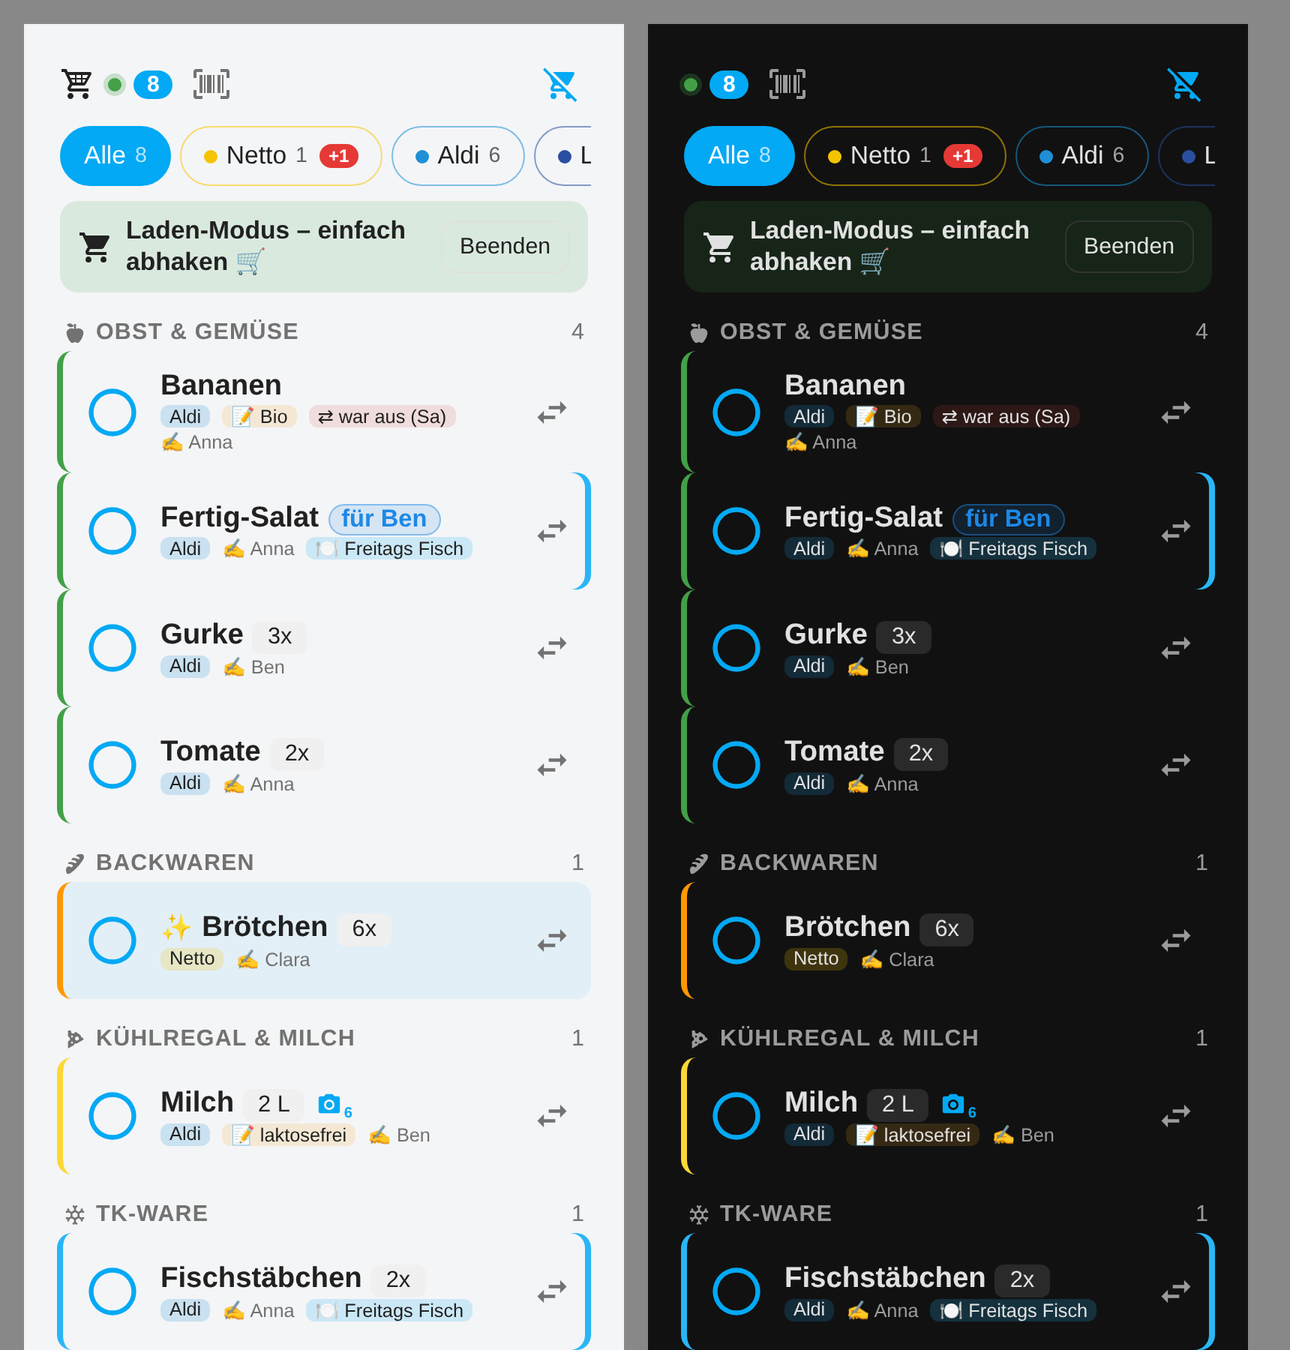
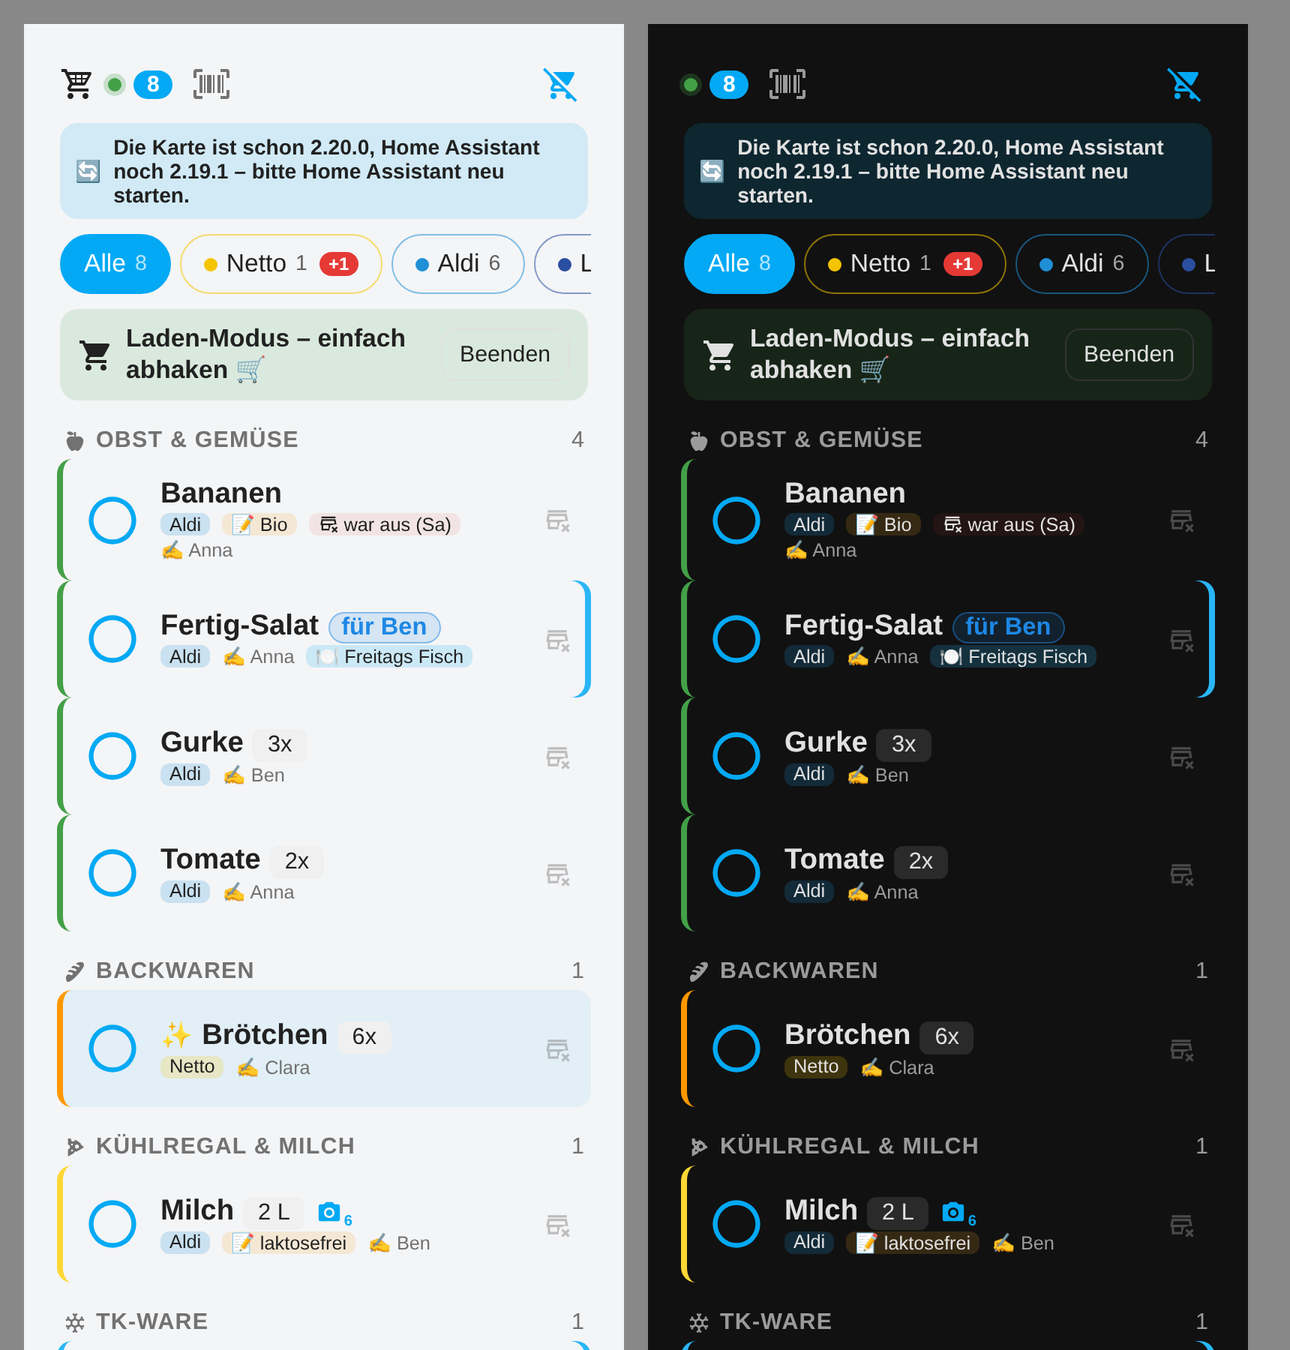
v2.20.1: „War aus“-Symbol 🏪✖ (store-remove) statt ⇄, dezent klein und blass
Claude-Session: https://claude.ai/code/session_01WikQiCoAkHJd8e52mW1tf4

diff --git a/custom_components/einkaufsliste/www/einkaufsliste-card.js b/custom_components/einkaufsliste/www/einkaufsliste-card.js
@@ -2,7 +2,7 @@
  * Einkaufsliste Card – die Familien-Einkaufsliste für Home Assistant
  * Wird automatisch von der Integration "einkaufsliste" geladen.
  */
-const EL_VERSION = "2.20.0";
+const EL_VERSION = "2.20.1";
 
 // Doppelt-Finder: Wörter, die dasselbe meinen (alles klein, ohne Leer-/Sonderzeichen)
 const DUP_SYNONYMS = (() => {
@@ -31,8 +31,8 @@ const LOG_ACT = {
   readd: { label: "♻ wieder drauf", verb: "hat % wieder auf die Liste genommen" },
   check: { label: "✅ abgehakt", verb: "hat % abgehakt" },
   edit: { label: "✏ geändert", verb: "hat % geändert" },
-  move: { label: "⇄ verschoben", verb: "hat % verschoben" },
-  out: { label: "⇄ war aus", verb: "hat % als „war aus“ markiert" },
+  move: { label: "🏪✖ verschoben", verb: "hat % verschoben" },
+  out: { label: "🏪✖ war aus", verb: "hat % als „war aus“ markiert" },
   remove: { label: "🗑 gelöscht", verb: "hat % gelöscht" },
 };
 const LOG_VIA = { card: "✍", scan: "▥", recipe: "🍳", merge: "🔗", cleanup: "🧹", service: "🤖" };
@@ -652,7 +652,7 @@ ha-card.shop .item { padding:11px 5px; font-size:1.2em; }
 ha-card.shop .item .name { font-weight:600; }
 ha-card.shop .item .check { padding:9px; --mdc-icon-size:38px; }
 ha-card.shop .item .meta { font-size:.66em; }
-ha-card.shop .item .acts { opacity:1; --mdc-icon-size:26px; }
+ha-card.shop .item .acts { opacity:.7; --mdc-icon-size:22px; }
 ha-card.shop .item .acts .iconbtn { padding:8px; }
 ha-card.shop .item .qty { font-size:.8em; padding:2px 10px; }
 ha-card.shop .ghead { font-size:.95em; padding:10px 4px 4px; }
@@ -669,6 +669,8 @@ ha-card.compact .item .check { padding:3px; }
 ha-card.compact .ghead { padding:3px 4px 0; }
 ha-card.compact .group { margin-top:4px; }
 .item .acts { display:flex; opacity:.55; }
+/* 🏪✖ „war aus“: dezent – kleiner und blasser, damit es nicht ins Auge springt */
+.item .acts [data-act="move"] { --mdc-icon-size:19px; opacity:.6; }
 .delrow { padding:4px 0; border-bottom:1px solid var(--divider-color, rgba(127,127,127,.15)); }
 .delname { min-width:0; }
 .delname b { display:block; font-weight:500; word-break:break-word; }
@@ -723,7 +725,8 @@ ha-card.compact .group { margin-top:4px; }
 .servtag { font-weight:400; opacity:.75; }
 .rgrouprow select { width:auto; min-width:150px; }
 #titleIcon { cursor:pointer; }
-.item .meta .iout { color:var(--primary-text-color); font-weight:500; background:color-mix(in srgb, var(--error-color, #db4437) 14%, transparent); border-radius:6px; padding:0 6px; }
+.item .meta .iout ha-icon { --mdc-icon-size:14px; vertical-align:-2px; }
+.item .meta .iout { color:var(--primary-text-color); font-weight:500; background:color-mix(in srgb, var(--error-color, #db4437) 9%, transparent); border-radius:6px; padding:0 6px; font-weight:400; }
 .moverow .outbtn { --c:var(--primary-color,#03a9f4); display:inline-flex; align-items:center; gap:4px; --mdc-icon-size:16px; }
 .bclist { display:flex; flex-wrap:wrap; gap:6px; }
 .bcchip { display:inline-flex; align-items:center; gap:2px; font-size:.85em; padding:0 0 0 8px; border:1px solid var(--divider-color, rgba(127,127,127,.35)); border-radius:8px; --mdc-icon-size:18px; }
@@ -1465,7 +1468,7 @@ class EinkaufslisteCard extends HTMLElement {
     // Reihenfolge unter dem Namen: Geschäft · Notiz · Barcode · wer eingetragen · wer abgehakt · (Rezept, Zeit)
     if (item.note) meta.push(`<span class="inote">📝 ${esc(item.note)}</span>`);
     if (!item.checked && item.out_at && Date.now() - new Date(item.out_at) < 3 * DAY)
-      meta.push(`<span class="iout" title="Beim letzten Einkauf nicht bekommen">⇄ war aus (${WD_SHORT[pyWd(new Date(item.out_at))]})</span>`);
+      meta.push(`<span class="iout" title="Beim letzten Einkauf nicht bekommen"><ha-icon icon="mdi:store-remove-outline"></ha-icon> war aus (${WD_SHORT[pyWd(new Date(item.out_at))]})</span>`);
     const pk = this._pk(item.name, item.note);
     const codes = this._barcodesOf(pk);
     if (codes.length && !this._shopMode) meta.push(`<span class="bc" title="Barcode hinterlegt: ${esc(codes.join(", "))}">▥</span>`);
@@ -1495,7 +1498,7 @@ class EinkaufslisteCard extends HTMLElement {
           <div class="line">${isNew ? `<span class="newbadge" title="Neu seit deinem letzten Blick">✨</span>` : ""}<span class="name">${esc(item.name)}</span>${qty}${who}${this._hasPhoto(pk) ? `<button class="photobtn" data-act="photo-view" data-name="${esc(pk)}" title="Foto ansehen"><ha-icon icon="mdi:camera"></ha-icon>${this._data.photo_counts?.[pk] > 1 ? `<small class="pcount">${this._data.photo_counts[pk]}</small>` : ""}</button>` : ""}</div>
           ${meta.length ? `<div class="meta">${meta.join("")}</div>` : ""}
         </div>
-        ${!item.checked && this._data.stores.length > 1 ? `<div class="acts"><button class="iconbtn" data-act="move" title="War aus – in anderes Geschäft"><ha-icon icon="mdi:swap-horizontal"></ha-icon></button></div>` : ""}
+        ${!item.checked && this._data.stores.length > 1 ? `<div class="acts"><button class="iconbtn" data-act="move" title="War aus – nächstes Mal wieder hier oder in anderes Geschäft"><ha-icon icon="mdi:store-remove-outline"></ha-icon></button></div>` : ""}
       </div>`;
   }
 
@@ -1504,7 +1507,7 @@ class EinkaufslisteCard extends HTMLElement {
     return `
       <div class="menurow" data-id="${item.id}">
         ${b("menu-edit", "mdi:pencil-outline", "Bearbeiten")}
-        ${!item.checked && this._data.stores.length > 1 ? b("menu-move", "mdi:swap-horizontal", "Verschieben") : ""}
+        ${!item.checked && this._data.stores.length > 1 ? b("menu-move", "mdi:store-remove-outline", "War aus") : ""}
         ${b("menu-qty", "mdi:numeric", "Menge")}
         ${b("menu-cat", "mdi:shape-outline", "Kategorie")}
         ${b("menu-photo", "mdi:camera-plus-outline", this._hasPhoto(this._pk(item.name, item.note)) ? "Fotos" : "Foto")}
@@ -3247,7 +3250,7 @@ class EinkaufslisteCard extends HTMLElement {
         <li>Oben die Reiter: <b>Alle</b>, Aldi, Netto … Die Zahl zeigt, wie viel dort offen ist.</li>
         <li>Die <b>rote Blase</b> heißt: Da ist was Neues dazugekommen, seit du zuletzt geschaut hast.</li>
         <li><b>✨</b> am Artikel = neu (verschwindet nach 24 Stunden).</li>
-        <li><b>⇄</b> am Artikel = war aus: <b>„Nächstes Mal wieder hier“</b> (bleibt offen, alle sehen „war aus“) oder gleich in ein anderes Geschäft schieben.</li></ul>`)}
+        <li><b>🏪✖</b> am Artikel = war aus: <b>„Nächstes Mal wieder hier“</b> (bleibt offen, alle sehen „war aus“) oder gleich in ein anderes Geschäft schieben.</li></ul>`)}
       ${sec("👆", "Ändern & lange drücken", `<ul>
         <li>Artikel <b>lange drücken</b> = Menü: Bearbeiten, Verschieben, Menge, Kategorie, Foto, Barcode.</li>
         <li>Menge direkt ändern: auf die Menge tippen, dann <span class="elg-k">−</span> und <span class="elg-k">＋</span>.</li>
@@ -4066,7 +4069,7 @@ class EinkaufslisteCard extends HTMLElement {
         this._moving = this._moving === id ? null : id;
         this._renderList();
         break;
-      case "move-out": { // ⇄ war aus, bleibt hier offen
+      case "move-out": { // 🏪✖ war aus, bleibt hier offen
         const itemId = el.closest(".moverow").dataset.id;
         this._moving = null;
         this._ws({ type: "einkaufsliste/item/out", item_id: itemId })

diff --git a/custom_components/einkaufsliste/const.py b/custom_components/einkaufsliste/const.py
@@ -3,7 +3,7 @@
 from __future__ import annotations
 
 DOMAIN = "einkaufsliste"
-VERSION = "2.20.0"
+VERSION = "2.20.1"
 
 STORAGE_KEY = f"{DOMAIN}.data"
 STORAGE_VERSION = 1

diff --git a/README.md b/README.md
@@ -32,7 +32,7 @@
 | 📸 **Fotos** | Ein Foto zum Artikel („genau diese Marke!“), auswählbar direkt beim Eintragen. |
 | 🔍 **Barcode** | In der Home-Assistant-App scannen: zu Hause zum **Eintragen** (auch mehrere hintereinander), im Laden zum **Abhaken**. |
 | 📖 **Kategorie raten** | Tippst du „Joghurt“, springt die Kategorie von selbst auf Kühlregal, bei „Pizza“ auf TK-Ware. Dafür gibt es ein eingebautes Wörterbuch mit rund 250 Produkten. Wählst du selbst etwas aus, hat das Vorrang. |
-| 🔁 **„War aus!“** | Gab's bei Aldi nicht? Tipp am Artikel auf **⇄**. Dann entweder **„Nächstes Mal wieder hier“** – der Artikel bleibt bei Aldi offen, alle sehen **„⇄ war aus (Sa)“** (3 Tage lang), und die Aufräum-Frist zählt ab heute neu – oder gleich ein anderes Geschäft, z. B. **Netto**: bei Aldi abgehakt, bei Netto offen. |
+| 🔁 **„War aus!“** | Gab's bei Aldi nicht? Tipp am Artikel auf **🏪✖**. Dann entweder **„Nächstes Mal wieder hier“** – der Artikel bleibt bei Aldi offen, alle sehen **„🏪✖ war aus (Sa)“** (3 Tage lang), und die Aufräum-Frist zählt ab heute neu – oder gleich ein anderes Geschäft, z. B. **Netto**: bei Aldi abgehakt, bei Netto offen. |
 | 📍 **Nächstes Geschäft** | Bist du bei einem Geschäft, springt die Liste automatisch auf dessen Reiter. Jeder sieht dabei sein eigenes Geschäft. |
 | 🛒 **Laden-Modus** | Ein Tipp auf den Wagen oben: große Zeilen, dicke Kreise, das Eingabefeld ist weg. Nur noch abhaken, auch mit einer Hand am Einkaufswagen. |
 | 🔗 **Doppelt-Finder** | Stehen „Tomate“ und „Tomaten“ (oder „Klopapier“ und „Toilettenpapier“) gleichzeitig drauf, fragt die Liste: **Zusammenlegen?** |
@@ -142,12 +142,12 @@ Was du gewählt hast, steht direkt am Symbol, zum Beispiel **🔢 2x · 👤 Oma
 ## 👆 Bedienung in der Liste
 
 - **⭕ Kreis antippen:** abhaken
-- **⇄ antippen:** „War aus!“ – zwei Möglichkeiten:
-  - **Nächstes Mal wieder hier:** Der Artikel bleibt offen beim selben Geschäft und bekommt **„⇄ war aus (Sa)“** – so wissen zu Hause alle Bescheid. Der Hinweis verschwindet nach 3 Tagen oder beim Abhaken. Die 7-Tage-Frist fürs automatische Aufräumen **fängt ab diesem Tag neu an**.
+- **🏪✖ antippen:** „War aus!“ – zwei Möglichkeiten:
+  - **Nächstes Mal wieder hier:** Der Artikel bleibt offen beim selben Geschäft und bekommt **„🏪✖ war aus (Sa)“** – so wissen zu Hause alle Bescheid. Der Hinweis verschwindet nach 3 Tagen oder beim Abhaken. Die 7-Tage-Frist fürs automatische Aufräumen **fängt ab diesem Tag neu an**.
   - **Anderes Geschäft:** Beim alten Geschäft wird der Artikel **abgehakt** (er bleibt dort unten bei „Erledigt“), beim neuen steht er **offen**.
 - **🔗 „Alle“ fasst zusammen:** Gibt es ein Produkt bei mehreren Geschäften, steht es bei **„Alle“ nur einmal**, mit den Geschäften darunter. Oben stehen nur die Geschäfte, wo es noch zu kaufen ist. Unten bei „Erledigt“ tippst du auf den Kreis und wählst **„Wieder drauf bei: Aldi / Netto“**. In den einzelnen Geschäfts-Reitern bleibt alles, wie es ist.
 - **🛒 Schon woanders offen?** Trägst du „Brot“ bei Aldi ein, obwohl es bei Netto noch offen ist, fragt die Liste: **„Nach Aldi verschieben“** oder **„Zusätzlich bei Aldi“**. Nur wenn du „Zusätzlich“ wählst, ist es bei beiden offen. Dann fragt „Alle“ beim Abhaken: **„Wo gekauft?“**
-- **Artikel lange drücken** (am PC: Rechtsklick): Es öffnet sich ein Menü (klappt nach 8 Sekunden ohne Tipp von selbst wieder zu) mit ✏ **Bearbeiten** · ⇄ **Verschieben** („War aus!“) · 🔢 **Menge** · 📦 **Kategorie** · 📷 **Foto** · ▥ **Barcode**
+- **Artikel lange drücken** (am PC: Rechtsklick): Es öffnet sich ein Menü (klappt nach 8 Sekunden ohne Tipp von selbst wieder zu) mit ✏ **Bearbeiten** · 🏪✖ **Verschieben** („War aus!“) · 🔢 **Menge** · 📦 **Kategorie** · 📷 **Foto** · ▥ **Barcode**
 - **Auf die Menge tippen** (zum Beispiel „2x“): Es erscheint **[−] 2x [＋]** zum schnellen Ändern
 - **✨ und rote Blase:** Artikel, die **andere** eingetragen haben, seit du zuletzt geschaut hast, bekommen ein ✨. Am Geschäfts-Reiter steht dann zum Beispiel **„+2“**. Die Blase bleibt stehen, bis du **genau diesen Reiter** antippst (nur „Alle“ anschauen reicht nicht), und sie verschwindet **nur bei dir**. Jeder hat seine eigene, wie bei WhatsApp. 🔴
 - **Farbstreifen:** Jede Kategorie hat ihre Farbe (links am Artikel). Die Farben änderst du im ⚙ Zahnrad bei den Kategorien.
